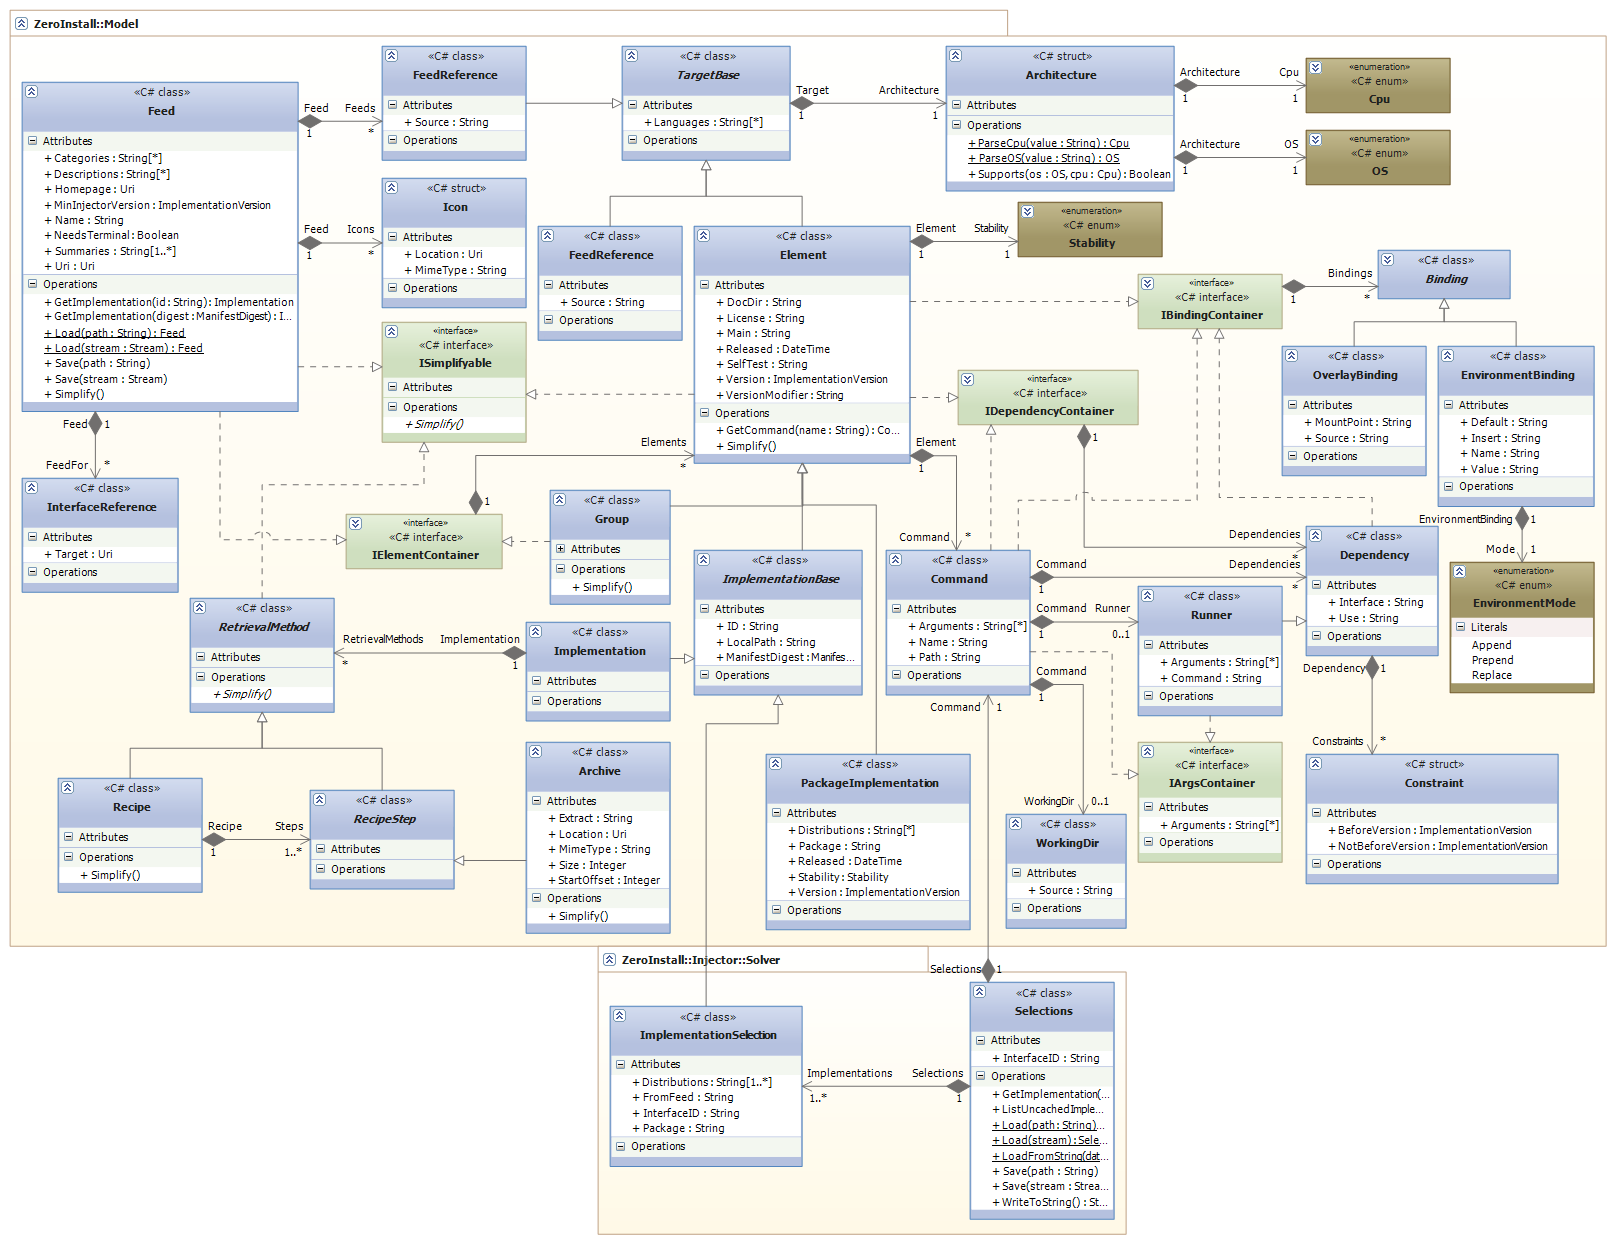
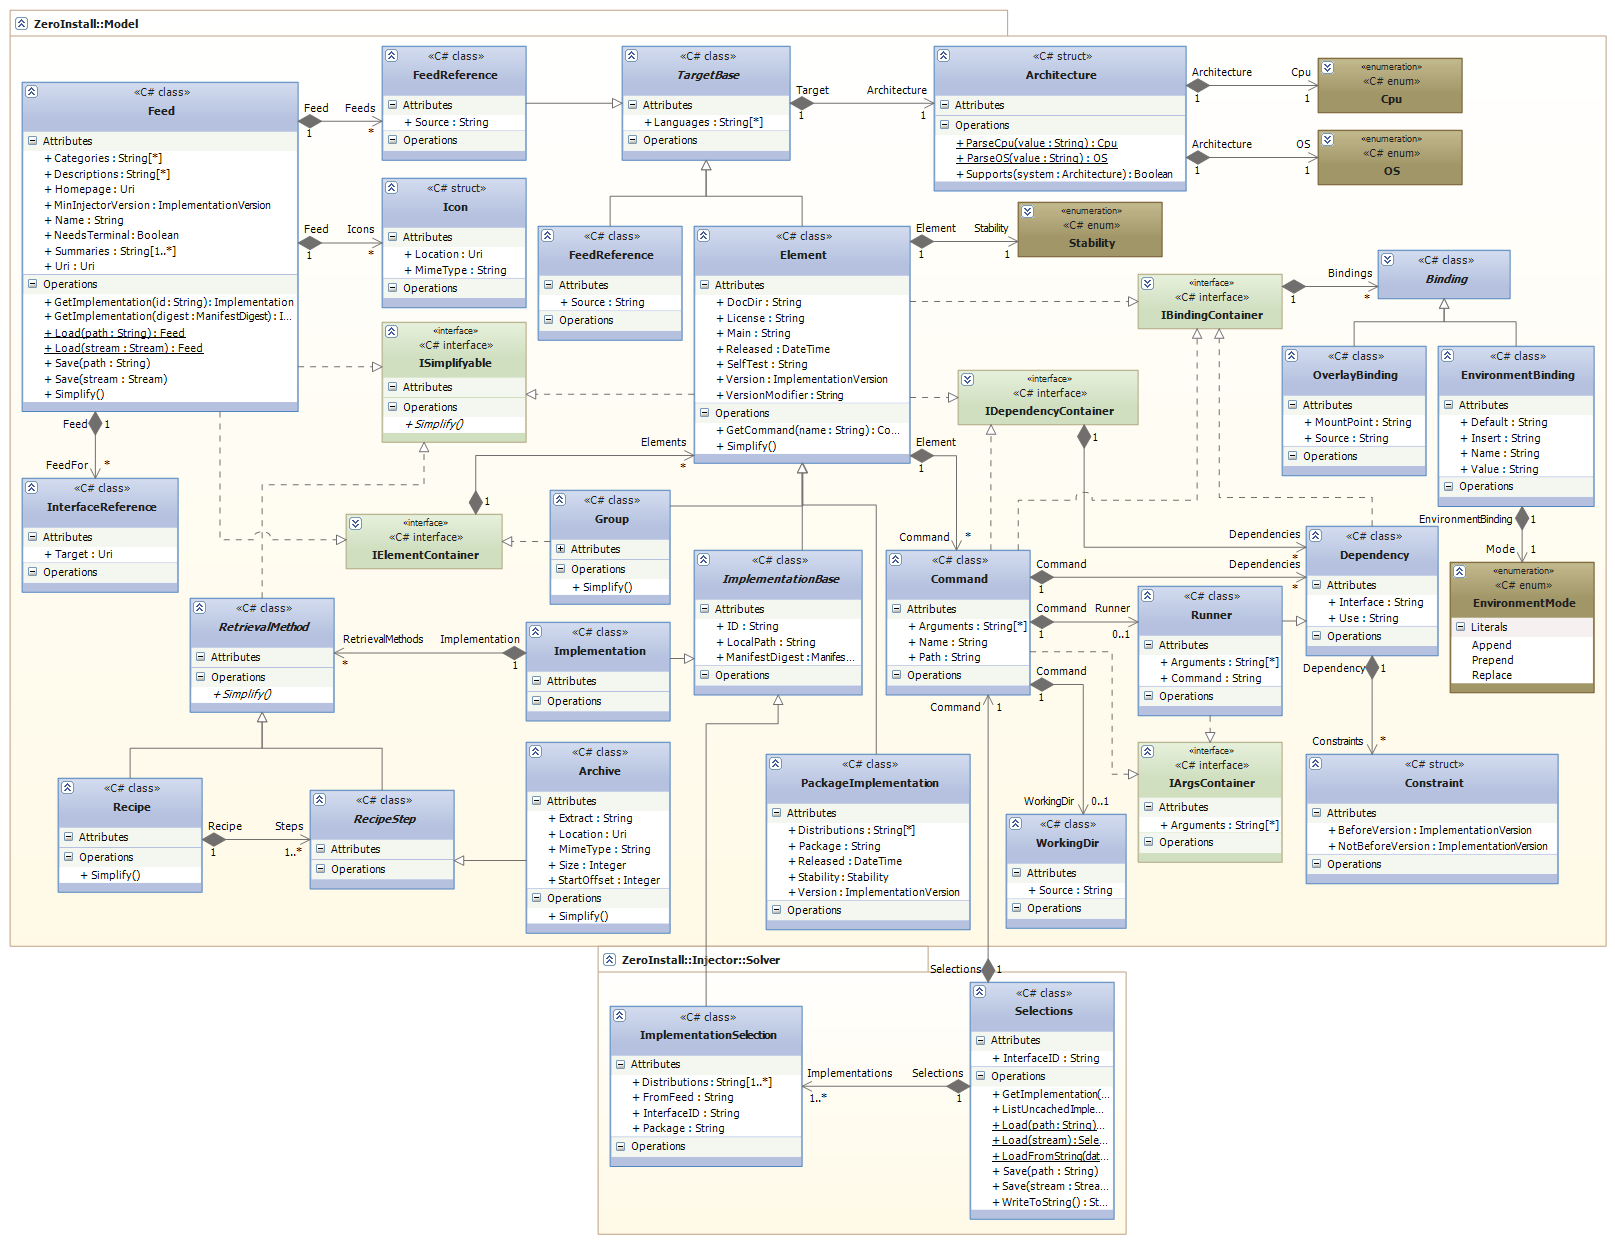
- Replaced Architecture.Supports() with Architecture.IsCompatible()

Changed region(s): [[0.5263, 0.0306, 0.774, 0.1529], [0.805, 0.0306, 0.8669, 0.1529], [0.8978, 0.0306, 0.9288, 0.1529]]

diff --git a/src/Model/Architecture.cs b/src/Model/Architecture.cs
@@ -19,6 +19,7 @@ using System;
 using System.ComponentModel;
 using System.Reflection;
 using System.Xml.Serialization;
+using Common.Utils;
 using ZeroInstall.Model.Design;
 using ZeroInstall.Model.Properties;
 
@@ -136,6 +137,25 @@ namespace ZeroInstall.Model
             // Return the first if there was a match
             return (attribs.Length > 0 ? attribs[0].Name : "");
         }
+
+        /// <summary>
+        /// Returns an architecture representing the currently running system.
+        /// </summary>
+        public static Architecture CurrentSystem
+        {
+            get
+            {
+                if (WindowsUtils.IsWindows) return new Architecture(OS.Windows, WindowsUtils.Is64BitOperatingSystem ? Cpu.X64 : Cpu.I486);
+
+                // ToDo: Improve detection of other operating systems and CPUs
+                switch (Environment.OSVersion.Platform)
+                {
+                    case PlatformID.Unix: return new Architecture(OS.Linux, Cpu.I586);
+                    case PlatformID.MacOSX: return new Architecture(OS.MacOsX, Cpu.I686);
+                    default: return new Architecture(OS.Unknown, Cpu.Unknown);
+                }
+            }
+        }
         #endregion
 
         #region Parsers
@@ -236,30 +256,49 @@ namespace ZeroInstall.Model
 
         //--------------------//
 
-        #region Support
+        #region Compatibility
         /// <summary>
-        /// Checks whether an <see cref="Implementation"/> that specifies this <see cref="Architecture"/> will be able to run on a specific system.
+        /// Determines whether this implementation architecture (the current instance) can run on a <paramref name="system"/> architecture.
         /// </summary>
-        /// <param name="os">The operating system of the system to test. Must be a specific operating system and not a wildcard.</param>
-        /// <param name="cpu">The CPU of the system to test. Must be a specific CPU and not a wildcard.</param>
-        /// <returns><see langword="true"/> if the system is supported; <see langword="false"/> otherwise.</returns>
-        public bool Supports(OS os, Cpu cpu)
+        /// <seealso cref="CurrentSystem"/>
+        public bool IsCompatible(Architecture system)
         {
-            #region Sanity checks
-            if (os == OS.All || os == OS.Unknown) throw new ArgumentException(Resources.MustBeSpecificOS, "os");
-            if (cpu == Cpu.All || cpu == Cpu.Unknown) throw new ArgumentException(Resources.MustBeSpecificCPU, "cpu");
-            #endregion
+            return AreCompatible(OS, system.OS) && AreCompatible(Cpu, system.Cpu);
+        }
 
-            // Fail if OS is neither a wildcard nor identical
-            if (OS != OS.All && OS != os) return false;
+        /// <summary>
+        /// Determines whether an <paramref name="implementation"/> OS is compatible with a <paramref name="system"/> OS.
+        /// </summary>
+        private static bool AreCompatible(OS implementation, OS system)
+        {
+            if (implementation == OS.Unknown || system == OS.Unknown) return false;
 
-            // Pass if CPU is either a wildcard or identical
-            if (Cpu == Cpu.All || Cpu == cpu) return true;
+            // Exact OS match or platform-neutral implementation
+            if (implementation == system || implementation == OS.All) return true;
 
-            // Handle x86-series backwards-compatibility
-            if ((Cpu >= Cpu.I386 && Cpu <= Cpu.X64) && (cpu >= Cpu.I386 && cpu <= Cpu.X64) && Cpu <= cpu) return true;
+            // Compatible supersets
+            if (implementation == OS.Windows && system == OS.Cygwin) return true;
+            if (implementation == OS.Darwin && system == OS.MacOsX) return true;
 
-            // Fail if nothing fits
+            // No match
+            return false;
+        }
+
+        /// <summary>
+        /// Determines whether an <paramref name="implementation"/> CPU is compatible with a <paramref name="system"/> CPU.
+        /// </summary>
+        private static bool AreCompatible(Cpu implementation, Cpu system)
+        {
+            if (implementation == Cpu.Unknown || system == Cpu.Unknown) return false;
+
+            // Exact CPU match or platform-neutral implementation
+            if (implementation == system || implementation == Cpu.All) return true;
+
+            // Compatible supersets
+            if (implementation == Cpu.Ppc && system == Cpu.Ppc64) return true;
+            if (implementation >= Cpu.I386 && implementation <= Cpu.X64 && system >= implementation && system <= Cpu.X64) return true;
+
+            // No match
             return false;
         }
         #endregion

diff --git a/src/Test.Backend/Model/ArchitectureTest.cs b/src/Test.Backend/Model/ArchitectureTest.cs
@@ -45,25 +45,51 @@ namespace ZeroInstall.Model
         }
 
         /// <summary>
-        /// Ensures <see cref="Architecture.Supports"/> correctly determines which kinds of packages can run on which machines (e.g. handling x86-series backwards-compatibility)
+        /// Ensures <see cref="Architecture.IsCompatible"/> correctly determines which kinds of packages can run on which machines.
         /// </summary>
         [Test]
-        public void TestSupports()
+        public void TestIsCompatible()
         {
-            Assert.IsTrue(new Architecture(OS.All, Cpu.All).Supports(OS.Linux, Cpu.I686));
-            Assert.IsTrue(new Architecture(OS.All, Cpu.I686).Supports(OS.Linux, Cpu.I686));
-            Assert.IsTrue(new Architecture(OS.Linux, Cpu.All).Supports(OS.Linux, Cpu.I686));
+            // Exact matches
+            Assert.IsTrue(new Architecture(OS.Windows, Cpu.I486).IsCompatible(new Architecture(OS.Windows, Cpu.I486)));
+            Assert.IsTrue(new Architecture(OS.Linux, Cpu.I586).IsCompatible(new Architecture(OS.Linux, Cpu.I586)));
+            Assert.IsTrue(new Architecture(OS.MacOsX, Cpu.I686).IsCompatible(new Architecture(OS.MacOsX, Cpu.I686)));
+
+            // OS wildcards
+            Assert.IsTrue(new Architecture(OS.All, Cpu.I486).IsCompatible(new Architecture(OS.Windows, Cpu.I486)));
+            Assert.IsTrue(new Architecture(OS.All, Cpu.I586).IsCompatible(new Architecture(OS.Linux, Cpu.I586)));
+            Assert.IsTrue(new Architecture(OS.All, Cpu.I686).IsCompatible(new Architecture(OS.MacOsX, Cpu.I686)));
+
+            // OS mismatches
+            Assert.IsFalse(new Architecture(OS.Windows, Cpu.I486).IsCompatible(new Architecture(OS.Linux, Cpu.I486)));
+            Assert.IsFalse(new Architecture(OS.Linux, Cpu.I486).IsCompatible(new Architecture(OS.Windows, Cpu.I486)));
+            Assert.IsFalse(new Architecture(OS.MacOsX, Cpu.I686).IsCompatible(new Architecture(OS.Linux, Cpu.I686)));
+            Assert.IsFalse(new Architecture(OS.Linux, Cpu.I686).IsCompatible(new Architecture(OS.MacOsX, Cpu.I686)));
+
+            // OS supersets
+            Assert.IsTrue(new Architecture(OS.Windows, Cpu.I486).IsCompatible(new Architecture(OS.Cygwin, Cpu.I486)));
+            Assert.IsFalse(new Architecture(OS.Cygwin, Cpu.I486).IsCompatible(new Architecture(OS.Windows, Cpu.I486)));
+            Assert.IsTrue(new Architecture(OS.Darwin, Cpu.I686).IsCompatible(new Architecture(OS.MacOsX, Cpu.I686)));
+            Assert.IsFalse(new Architecture(OS.MacOsX, Cpu.I686).IsCompatible(new Architecture(OS.Darwin, Cpu.I686)));
+
+            // CPU wildcards
+            Assert.IsTrue(new Architecture(OS.Windows, Cpu.All).IsCompatible(new Architecture(OS.Windows, Cpu.I486)));
+            Assert.IsTrue(new Architecture(OS.Linux, Cpu.All).IsCompatible(new Architecture(OS.Linux, Cpu.I586)));
+            Assert.IsTrue(new Architecture(OS.MacOsX, Cpu.All).IsCompatible(new Architecture(OS.MacOsX, Cpu.I686)));
+
+            // CPU mismatches
+            Assert.IsFalse(new Architecture(OS.MacOsX, Cpu.I686).IsCompatible(new Architecture(OS.MacOsX, Cpu.Ppc)));
+            Assert.IsFalse(new Architecture(OS.Linux, Cpu.Ppc).IsCompatible(new Architecture(OS.Linux, Cpu.I586)));
 
             // x86-series backwards-compatibility
-            Assert.IsTrue(new Architecture(OS.Linux, Cpu.I386).Supports(OS.Linux, Cpu.I686));
-            Assert.IsTrue(new Architecture(OS.Linux, Cpu.I386).Supports(OS.Linux, Cpu.X64));
+            Assert.IsTrue(new Architecture(OS.Linux, Cpu.I386).IsCompatible(new Architecture(OS.Linux, Cpu.I686)));
+            Assert.IsTrue(new Architecture(OS.Linux, Cpu.I386).IsCompatible(new Architecture(OS.Linux, Cpu.X64)));
+            Assert.IsFalse(new Architecture(OS.Linux, Cpu.I686).IsCompatible(new Architecture(OS.Linux, Cpu.I386)));
+            Assert.IsFalse(new Architecture(OS.Linux, Cpu.X64).IsCompatible(new Architecture(OS.Linux, Cpu.I686)));
 
-            Assert.IsFalse(new Architecture(OS.Linux, Cpu.I686).Supports(OS.Windows, Cpu.I686));
-            Assert.IsFalse(new Architecture(OS.All, Cpu.I686).Supports(OS.Linux, Cpu.Ppc));
-
-            // No x86-series upwards-compatibility
-            Assert.IsFalse(new Architecture(OS.Linux, Cpu.I686).Supports(OS.Linux, Cpu.I386));
-            Assert.IsFalse(new Architecture(OS.Linux, Cpu.X64).Supports(OS.Linux, Cpu.I686));
+            // PowerPC backwards-compatibility
+            Assert.IsTrue(new Architecture(OS.MacOsX, Cpu.Ppc).IsCompatible(new Architecture(OS.MacOsX, Cpu.Ppc64)));
+            Assert.IsFalse(new Architecture(OS.MacOsX, Cpu.Ppc64).IsCompatible(new Architecture(OS.MacOsX, Cpu.Ppc)));
         }
     }
 }
